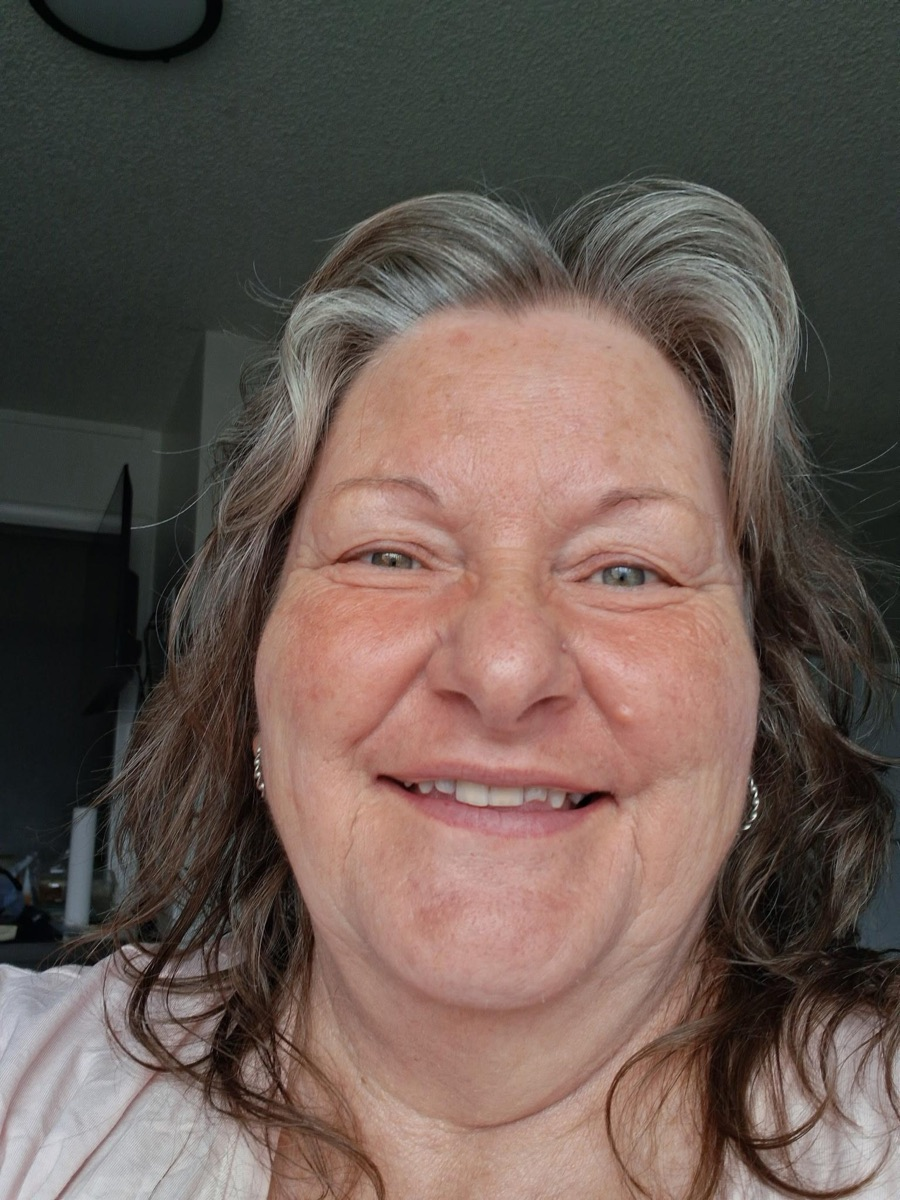
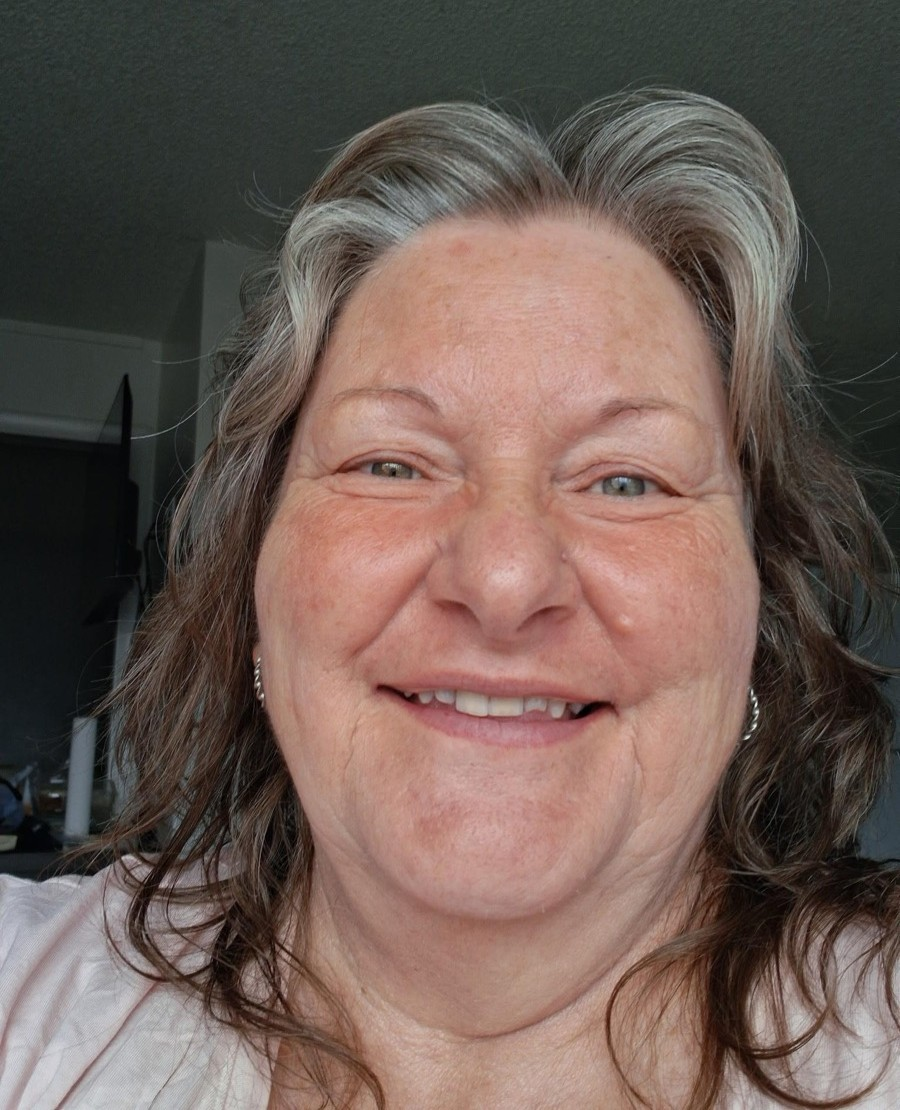
Design fixes from a full-site review
- Remove the quote carousel's arrow and dot buttons and the button
  hover lift; quotes still rotate and pause on hover or focus
- Leave participants without a photo off the site until one is added
- Crop the pillars out of Alison's photo and the ceiling lamp out of
  Jan's; regenerate the share image
- Drop the home 'Two goals' section, which repeated the problem section
- Choose 3 or 4 card columns so rows never end with a gap
- Phones: swipeable participant row on the home and story pages, two
  columns on the participants page
- One accent color for the help cards; center the job intro beside its
  fact panel; drop cap to open each story

diff --git a/assets/css/styles.css b/assets/css/styles.css
@@ -82,10 +82,8 @@ strong { font-weight: 600; }
   text-decoration: none;
   cursor: pointer;
   text-align: center;
-  transition: transform 0.2s var(--ease), box-shadow 0.2s var(--ease), background 0.2s;
+  transition: background 0.2s, color 0.2s;
 }
-.btn:hover { transform: translateY(-2px); box-shadow: 0 6px 16px rgba(28, 36, 32, 0.16); }
-.btn:active { transform: none; box-shadow: none; }
 .btn--primary { background: var(--green); color: #fff; }
 .btn--primary:hover { background: var(--green-dark); color: #fff; }
 .btn--light { background: #fff; color: var(--forest); }
@@ -185,7 +183,8 @@ strong { font-weight: 600; }
 .section-header p { color: var(--muted); font-size: 1.1rem; margin: 0; }
 .section-more { margin: 40px 0 0; }
 
-.split { display: grid; grid-template-columns: 1fr 1fr; gap: 64px; align-items: start; }
+.split { display: grid; grid-template-columns: 1fr 1fr; gap: 64px; align-items: center; }
+.split--top { align-items: start; }
 .split--top { grid-template-columns: 1fr 2fr; }
 @media (max-width: 860px) { .split, .split--top { grid-template-columns: 1fr; gap: 24px; } }
 
@@ -224,7 +223,20 @@ strong { font-weight: 600; }
   .card-grid--4, .card-grid--3 { grid-template-columns: repeat(2, 1fr); gap: 32px 20px; }
   .card-grid .card__photo { aspect-ratio: 1 / 1; }
 }
-@media (max-width: 560px) { .card-grid--4, .card-grid--3 { grid-template-columns: 1fr; } }
+@media (max-width: 560px) {
+  .card-grid--4, .card-grid--3 { grid-template-columns: 1fr 1fr; gap: 28px 14px; }
+  .card-grid .card__name { font-size: 1.2rem; }
+  .card-grid .card__quote { font-size: 0.92rem; }
+  .card-grid .card__more { font-size: 0.85rem; white-space: nowrap; }
+  .card-grid--scroll {
+    grid-template-columns: none; grid-auto-flow: column; grid-auto-columns: 72%;
+    overflow-x: auto; scroll-snap-type: x mandatory; scrollbar-width: none;
+    margin: 0 calc(-1 * var(--gutter)); padding: 4px var(--gutter) 12px; scroll-padding-left: var(--gutter);
+  }
+  .card-grid--scroll::-webkit-scrollbar { display: none; }
+  .card-grid--scroll > .card { scroll-snap-align: start; }
+  .card-grid--scroll .card__photo { aspect-ratio: 4 / 5; }
+}
 
 .card { display: flex; flex-direction: column; color: inherit; text-decoration: none; transition: transform 0.3s var(--ease); }
 .card:hover { transform: translateY(-4px); }
@@ -238,12 +250,6 @@ strong { font-weight: 600; }
 .card__quote { color: var(--muted); margin-bottom: 10px; }
 .card__more { margin-top: auto; font-weight: 600; color: var(--green); font-size: 0.95rem; }
 
-.photo-placeholder {
-  width: 100%; height: 100%; display: grid; place-items: center; position: relative;
-  background: var(--forest); color: #fff;
-}
-.photo-placeholder span { font-family: var(--serif); font-size: 5rem; line-height: 1; }
-.photo-placeholder small { position: absolute; left: 14px; bottom: 12px; font-size: 0.8rem; color: #c6d6cc; }
 
 /* ---------- Facts list ---------- */
 .facts { margin: 0; background: #fff; border-radius: var(--radius-lg); padding: 8px 28px; box-shadow: var(--shadow-sm); }
@@ -352,6 +358,10 @@ strong { font-weight: 600; }
   padding-bottom: 28px; margin-bottom: 32px; border-bottom: 1px solid var(--rule);
 }
 .story__body { font-size: 1.12rem; line-height: 1.75; }
+.story__body > p:first-child::first-letter {
+  float: left; font-family: var(--serif); font-size: 4.1em; line-height: 0.82; color: var(--clay);
+  padding: 0.08em 0.1em 0 0;
+}
 .story__body p { margin-bottom: 1.2em; }
 .story__body h2 { font-size: 1.6rem; margin-top: 1.6em; }
 .story__summary { background: #fff; padding: 24px 28px; border-left: 4px solid var(--clay); border-radius: 0 var(--radius-lg) var(--radius-lg) 0; box-shadow: var(--shadow-sm); }
@@ -447,19 +457,6 @@ strong { font-weight: 600; }
 .js-rotator .quote-slide[hidden] { display: grid; visibility: hidden; opacity: 0; transform: translateX(24px); }
 .js-rotator .quote-slide { transition: opacity 0.6s var(--ease), transform 0.6s var(--ease), visibility 0.6s; }
 .js-rotator .quote-slide.is-leaving { opacity: 0; transform: translateX(-24px); }
-.quote-controls { display: flex; align-items: center; gap: 16px; margin-top: 20px; padding-left: 296px; }
-.quote-controls[hidden] { display: none; }
-.quote-controls__btn {
-  width: 42px; height: 42px; border-radius: 50%; border: 1px solid var(--rule); background: #fff; cursor: pointer;
-  display: grid; place-items: center; color: var(--forest); box-shadow: var(--shadow-sm); transition: background 0.2s, transform 0.2s var(--ease);
-}
-.quote-controls__btn:hover { background: var(--paper-2); transform: scale(1.06); }
-.quote-controls__btn svg { width: 18px; height: 18px; fill: none; stroke: currentColor; stroke-width: 2.2; stroke-linecap: round; stroke-linejoin: round; }
-.quote-controls__dots { display: flex; gap: 8px; }
-.quote-dot { width: 9px; height: 9px; padding: 0; border-radius: 999px; border: 0; background: var(--rule); cursor: pointer; transition: width 0.3s var(--ease), background 0.3s; }
-.quote-dot[aria-current="true"] { width: 28px; background: var(--clay); }
-.quote-slide .photo-placeholder { aspect-ratio: 4 / 5; border-radius: var(--radius-lg); box-shadow: var(--shadow); transform: rotate(-2deg); }
-@media (max-width: 700px) { .quote-controls { padding-left: 0; } }
 
 /* ---------- Ways to get involved ---------- */
 .ways { display: grid; grid-template-columns: repeat(4, 1fr); gap: 20px; }
@@ -468,9 +465,6 @@ strong { font-weight: 600; }
   box-shadow: var(--shadow-sm); color: inherit; text-decoration: none; border-top: 4px solid var(--green);
   transition: transform 0.3s var(--ease), box-shadow 0.3s var(--ease);
 }
-.way:nth-child(2) { border-top-color: var(--clay); }
-.way:nth-child(3) { border-top-color: var(--forest); }
-.way:nth-child(4) { border-top-color: #c9a24a; }
 .way:hover { transform: translateY(-5px); box-shadow: var(--shadow); color: inherit; }
 .way h3 { font-size: 1.5rem; margin-bottom: 8px; }
 .way p { color: var(--muted); font-size: 0.98rem; }

diff --git a/src/pages/index.html b/src/pages/index.html
@@ -48,7 +48,7 @@ description: Fund real jobs, real skills, and a path to stability for Utah's hom
       <p>Your donation provides employment and grows the Family Tree.</p>
     </header>
     {{ participants.featured }}
-    <div class="card-grid card-grid--4">
+    <div class="card-grid card-grid--scroll card-grid--{{ participants.not_featured_cols }}">
       {{ participants.not_featured }}
     </div>
     <p class="section-more"><a class="link-arrow" href="{{ base }}stories/">All participant stories</a></p>
@@ -83,27 +83,20 @@ description: Fund real jobs, real skills, and a path to stability for Utah's hom
         </div>
       </figure>
       <figure class="quote-feature quote-slide" data-index="1" hidden>
-        <div class="quote-feature__photo">{{ photo.candace.quote }}</div>
-        <div class="quote-feature__body">
-          <blockquote><p>I’d rather have a term that reflects someone who’s trying.</p></blockquote>
-          <figcaption>Candace, program participant. <a href="{{ base }}stories/candace.html">Read Candace’s story</a></figcaption>
-        </div>
-      </figure>
-      <figure class="quote-feature quote-slide" data-index="2" hidden>
         <div class="quote-feature__photo">{{ photo.gregory.quote }}</div>
         <div class="quote-feature__body">
           <blockquote><p>I don’t have a job. I need a job. I need to do something.</p></blockquote>
           <figcaption>Gregory, program participant. <a href="{{ base }}stories/gregory.html">Read Gregory’s story</a></figcaption>
         </div>
       </figure>
-      <figure class="quote-feature quote-slide" data-index="3" hidden>
+      <figure class="quote-feature quote-slide" data-index="2" hidden>
         <div class="quote-feature__photo">{{ photo.alison.quote }}</div>
         <div class="quote-feature__body">
           <blockquote><p>I overcame hell.</p></blockquote>
           <figcaption>Alison, program participant. <a href="{{ base }}stories/alison.html">Read Alison’s story</a></figcaption>
         </div>
       </figure>
-      <figure class="quote-feature quote-slide" data-index="4" hidden>
+      <figure class="quote-feature quote-slide" data-index="3" hidden>
         <div class="quote-feature__photo">{{ photo.jan.quote }}</div>
         <div class="quote-feature__body">
           <blockquote><p>I know what I want to do, and I know the steps I need to take.</p></blockquote>
@@ -111,32 +104,6 @@ description: Fund real jobs, real skills, and a path to stability for Utah's hom
         </div>
       </figure>
     </div>
-    <div class="quote-controls" hidden>
-      <button type="button" class="quote-controls__btn" data-dir="-1" aria-label="Previous quote"><svg viewBox="0 0 24 24" aria-hidden="true"><path d="M15 5l-7 7 7 7"/></svg></button>
-      <div class="quote-controls__dots"><button type="button" class="quote-dot" aria-label="Show quote 1 of 5"></button><button type="button" class="quote-dot" aria-label="Show quote 2 of 5"></button><button type="button" class="quote-dot" aria-label="Show quote 3 of 5"></button><button type="button" class="quote-dot" aria-label="Show quote 4 of 5"></button><button type="button" class="quote-dot" aria-label="Show quote 5 of 5"></button></div>
-      <button type="button" class="quote-controls__btn" data-dir="1" aria-label="Next quote"><svg viewBox="0 0 24 24" aria-hidden="true"><path d="M9 5l7 7-7 7"/></svg></button>
-    </div>
-  </div>
-</section>
-
-<section class="section section--rule">
-  <div class="container">
-    <header class="section-header">
-      <p class="section-label">A lasting impact</p>
-      <h2>Two goals. One program.</h2>
-      <p>The program creates value both for the people it employs and for the families who benefit from their work.</p>
-    </header>
-    <div class="columns-2">
-      <div>
-        <h3>Long-term employment</h3>
-        <p>Participants build meaningful work experience, develop transferable skills, and overcome barriers to employment through employment itself.</p>
-      </div>
-      <div>
-        <h3>Family connections for future generations</h3>
-        <p>Working with BYU’s Record Linking Lab, employees make a lasting contribution to historical and genealogical research.</p>
-      </div>
-    </div>
-    <p class="section-more"><a class="link-arrow" href="{{ base }}about.html">About the initiative</a></p>
   </div>
 </section>
 

diff --git a/assets/js/main.js b/assets/js/main.js
@@ -69,43 +69,32 @@
     });
   }
 
-  /* ---------- Rotating participant quotes ---------- */
+  /* ---------- Rotating participant quotes ----------
+     Quotes change every 8 seconds and pause while the pointer or keyboard
+     focus is on them. Motion-sensitive visitors see the first quote only. */
   const rotator = document.querySelector(".quote-rotator");
-  if (rotator) {
+  if (rotator && !reduceMotion) {
     const slides = [...rotator.querySelectorAll(".quote-slide")];
-    const controls = rotator.parentElement.querySelector(".quote-controls");
-    const dots = [...controls.querySelectorAll(".quote-dot")];
     let current = 0;
     let timer = null;
 
     const show = (next) => {
-      next = (next + slides.length) % slides.length;
-      if (next === current) return;
       const leaving = slides[current];
       leaving.classList.add("is-leaving");
       leaving.hidden = true;
       setTimeout(() => leaving.classList.remove("is-leaving"), 600);
-      slides[next].hidden = false;
-      dots[current].removeAttribute("aria-current");
-      dots[next].setAttribute("aria-current", "true");
-      current = next;
+      current = next % slides.length;
+      slides[current].hidden = false;
     };
     const stop = () => { clearInterval(timer); timer = null; };
-    const start = () => { if (!reduceMotion && !timer) timer = setInterval(() => show(current + 1), 7000); };
+    const start = () => { if (!timer) timer = setInterval(() => show(current + 1), 8000); };
 
     rotator.classList.add("js-rotator");
-    controls.hidden = false;
-    dots[0].setAttribute("aria-current", "true");
-    controls.querySelectorAll("[data-dir]").forEach((b) =>
-      b.addEventListener("click", () => { stop(); show(current + Number(b.dataset.dir)); start(); })
-    );
-    dots.forEach((d, i) => d.addEventListener("click", () => { stop(); show(i); start(); }));
-    const area = rotator.parentElement;
-    area.addEventListener("mouseenter", stop);
-    area.addEventListener("mouseleave", start);
-    area.addEventListener("focusin", stop);
-    area.addEventListener("focusout", start);
-    start();
+    rotator.addEventListener("mouseenter", stop);
+    rotator.addEventListener("mouseleave", start);
+    rotator.addEventListener("focusin", stop);
+    rotator.addEventListener("focusout", start);
+    if (slides.length > 1) start();
   }
 
   /* ---------- Copy story link ---------- */

diff --git a/src/pages/stories/index.html b/src/pages/stories/index.html
@@ -20,7 +20,7 @@ current: stories
       </div>
       <a class="btn btn--primary" href="{{ site.donate_url }}">Support the program</a>
     </div>
-    <div class="card-grid card-grid--3">
+    <div class="card-grid card-grid--{{ participants.all_cols }}">
       {{ participants.all }}
     </div>
   </div>

diff --git a/src/templates/story.html b/src/templates/story.html
@@ -30,7 +30,7 @@
     <header class="section-header">
       <h2>More participant stories</h2>
     </header>
-    <div class="card-grid card-grid--4">
+    <div class="card-grid card-grid--scroll card-grid--{{ p.more_cols }}">
       {{ p.more }}
     </div>
   </div>

diff --git a/build.py b/build.py
@@ -170,13 +170,6 @@ def picture(base, info, alt, sizes, position="", eager=False):
     )
 
 
-def placeholder(name):
-    return (
-        f'<div class="photo-placeholder" role="img" aria-label="{esc(name)}, photo coming soon">'
-        f'<span>{esc(name[:1])}</span><small>Photo coming soon</small></div>'
-    )
-
-
 SIZES = {
     "card": "(max-width: 600px) 100vw, (max-width: 960px) 50vw, 300px",
     "featured": "(max-width: 900px) 100vw, 520px",
@@ -207,16 +200,17 @@ def load_participants(photos, base):
         }
         p["excerpt"] = p["summary"] or first_paragraph(body)
         p["info"] = None
-        if p["photo_file"] and (IMG_SRC / p["photo_file"]).exists():
-            p["info"] = photos.prepare(p["photo_file"], p["position"], f"{pid}.jpg")
+        if not (p["photo_file"] and (IMG_SRC / p["photo_file"]).exists()):
+            # Participants appear on the site once they have a photo.
+            print(f"  Skipping {pid}: no photo yet")
+            continue
+        p["info"] = photos.prepare(p["photo_file"], p["position"], f"{pid}.jpg")
         people.append(p)
     people.sort(key=lambda x: (x["order"], x["name"]))
     return people
 
 
 def photo_for(p, base, variant):
-    if not p["info"]:
-        return placeholder(p["name"])
     eager = variant in ("hero", "story")
     return picture(base, p["info"], f"Portrait of {p['name']}", SIZES[variant], p["position"], eager)
 
@@ -229,6 +223,14 @@ def card(p, base):
         <p class="card__quote">“{esc(p['quote'])}”</p>
         <span class="card__more">Read {esc(p['name'])}’s story</span>
       </a>"""
+
+
+def grid_cols(n):
+    """Pick 3 or 4 columns so the last row of cards isn't a lone straggler."""
+    if n <= 3:
+        return "3"
+    fill = lambda c: (n % c or c) / c  # how full the last row is
+    return "4" if fill(4) >= fill(3) else "3"
 
 
 def featured(p, base):
@@ -284,8 +286,11 @@ def main():
 
     feat = next((p for p in people if p["featured"] and p["info"]), people[0])
     ctx["participants.featured"] = featured(feat, base)
-    ctx["participants.not_featured"] = "\n      ".join(card(p, base) for p in people if p is not feat)
+    rest = [p for p in people if p is not feat]
+    ctx["participants.not_featured"] = "\n      ".join(card(p, base) for p in rest)
     ctx["participants.all"] = "\n      ".join(card(p, base) for p in people)
+    ctx["participants.not_featured_cols"] = grid_cols(len(rest))
+    ctx["participants.all_cols"] = grid_cols(len(people))
     for p in people:
         for variant in SIZES:
             ctx[f"photo.{p['id']}.{variant}"] = photo_for(p, base, variant)
@@ -331,12 +336,14 @@ def main():
         if p["summary"]:
             body = f'<p class="story__summary">{inline_md(p["summary"])}</p>\n        <h2>Expanded story</h2>\n        {body}'
         others = [q for q in people if q is not p][:4]
+        story_ctx_cols = grid_cols(len(others))
         story_ctx = {
             "p.name": esc(p["name"]),
             "p.quote": esc(p["quote"]),
             "p.photo": photo_for(p, base, "story"),
             "p.body": body,
             "p.more": "\n      ".join(card(q, base) for q in others),
+            "p.more_cols": story_ctx_cols,
             "p.url": esc(f"{site_url}stories/{p['id']}.html"),
             "p.share_url": quote(f"{site_url}stories/{p['id']}.html", safe=""),
             "p.status": f'<p class="status-badge status-badge--inline">{esc(p["status"])}</p>' if p["status"] else "",

diff --git a/content/participants/jan.md b/content/participants/jan.md
@@ -2,7 +2,7 @@
 name: Jan
 order: 4
 photo: jan.jpg
-photo_position: 50% 40%
+photo_position: 50% 35%
 quote: This has been an opportunity to learn about people I might never have met otherwise.
 featured: no
 summary: Jan moved to Utah with a simple goal: to spend her days helping people discover their family history. But things didn’t go quite as planned—her car was towed in Nevada, she spent nights outside without a phone, and now relies on a warming center for shelter. Yet when people ask, “So, what’s your story?”, the first thing Jan talks about isn’t the hardship. It’s the people she met along the way. With a contagious laugh and deep love for others, Jan has formed genuine friendships everywhere she goes. Even as she prepares to find housing outside of the warming center, leaving the friends she’s made there is saddening.

diff --git a/content/participants/alison.md b/content/participants/alison.md
@@ -2,7 +2,7 @@
 name: Alison
 order: 5
 photo: alison.jpg
-photo_position: 50% 25%
+photo_position: 50% 30%
 quote: We’re only going forward, we ain’t going backwards. We ain’t doing this again.
 featured: yes
 ---
